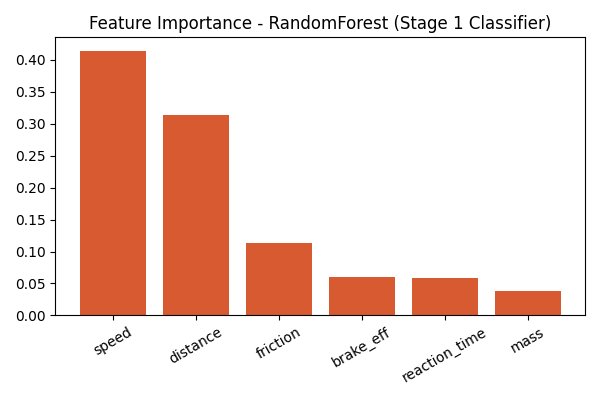
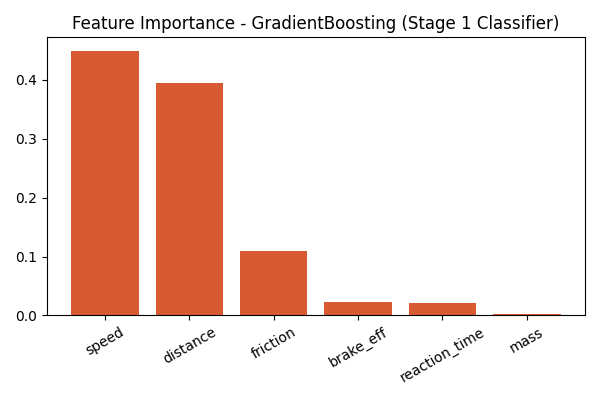
v1.3: fast lightweight fallback training, removed ineffective runtime pin

diff --git a/src/models/train.py b/src/models/train.py
@@ -47,7 +47,7 @@ def train_stage1_classifier(df):
     candidates = {
         "LogisticRegression": LogisticRegression(max_iter=1000),
         "DecisionTree": DecisionTreeClassifier(random_state=SEED),
-        "RandomForest": RandomForestClassifier(n_estimators=200, random_state=SEED),
+        "RandomForest": RandomForestClassifier(n_estimators=100, random_state=SEED),
         "GradientBoosting": GradientBoostingClassifier(random_state=SEED),
     }
 
@@ -101,7 +101,7 @@ def train_stage2_regressor(df):
     candidates = {
         "LinearRegression": LinearRegression(),
         "DecisionTree": DecisionTreeRegressor(random_state=SEED),
-        "RandomForest": RandomForestRegressor(n_estimators=200, random_state=SEED),
+        "RandomForest": RandomForestRegressor(n_estimators=100, random_state=SEED),
         "GradientBoosting": GradientBoostingRegressor(random_state=SEED),
     }
 
@@ -144,6 +144,28 @@ def plot_feature_importance(model, model_name, stage_label):
         plt.close()
     except OSError:
         pass  # read-only filesystem (e.g. some cloud environments) - safe to skip
+
+
+def train_fast_fallback(df):
+    """
+    Lightweight training path used ONLY as a runtime fallback (e.g. when a
+    deployment environment's scikit-learn version can't unpickle the models
+    trained locally). Skips the full 4-vs-4 model comparison and trains just
+    the single best-known model per stage directly, on a smaller sample, so
+    cold-start on constrained cloud CPUs stays fast (a few seconds instead of
+    minutes).
+    """
+    X = df[FEATURES]
+    y_clf = df["crash"]
+
+    clf = RandomForestClassifier(n_estimators=80, max_depth=12, random_state=SEED)
+    clf.fit(X, y_clf)
+
+    crash_df = df[df["crash"] == 1]
+    reg = GradientBoostingRegressor(n_estimators=80, max_depth=3, random_state=SEED)
+    reg.fit(crash_df[FEATURES], crash_df["impact_force"])
+
+    return clf, reg
 
 
 def main():

diff --git a/app.py b/app.py
@@ -59,13 +59,12 @@ def get_models():
     try:
         return load_models()
     except Exception:
-        st.info("Saved models weren't compatible with this environment — training fresh models now (takes a few seconds)...")
+        st.info("Saved models weren't compatible with this environment — training fresh models now (a few seconds)...")
         from simulation.generate_dataset import generate_dataset
-        from models.train import train_stage1_classifier, train_stage2_regressor
+        from models.train import train_fast_fallback
 
-        df = generate_dataset(n_samples=4000, seed=42)
-        clf, _, _ = train_stage1_classifier(df)
-        reg, _, _ = train_stage2_regressor(df)
+        df = generate_dataset(n_samples=1500, seed=42)
+        clf, reg = train_fast_fallback(df)
         return clf, reg
 
 

diff --git a/README.md b/README.md
@@ -130,6 +130,21 @@ streamlit run app.py
 
 Full metrics saved in `results/metrics_summary.json`.
 
+## Interview talking points
+
+- Reframed the problem from pure regression to a two-stage pipeline
+  (probability of occurrence → conditional severity), similar to how
+  real-world risk assessment systems (insurance, safety) are structured.
+- Modeled weather and traffic as multi-variable dependencies — e.g. rain
+  reduces both friction *and* effective reaction time (visibility), rather
+  than a single relabeled slider.
+- Verified the ML model's output against an independent, deterministic
+  physics formula rather than trusting it blindly — same generator/verifier
+  philosophy applied elsewhere, just rule-based here instead of a second
+  neural model.
+- Speed and vehicle mass dominate the risk model, which lines up with
+  kinetic energy scaling as mass × velocity² — a physics-grounded sanity
+  check on the model's behavior.
 
 ## Future scope (V2, not built)
 